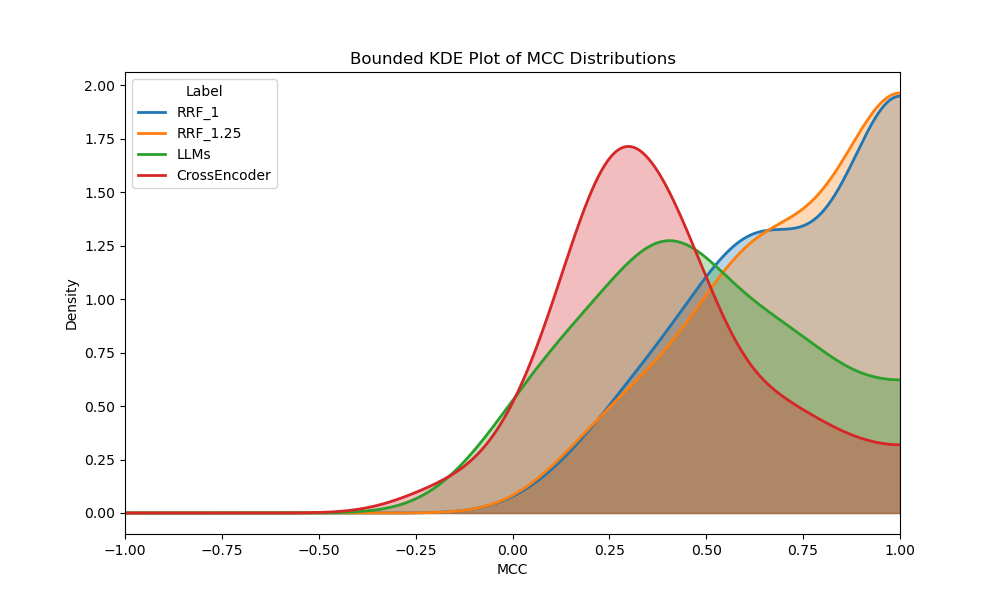
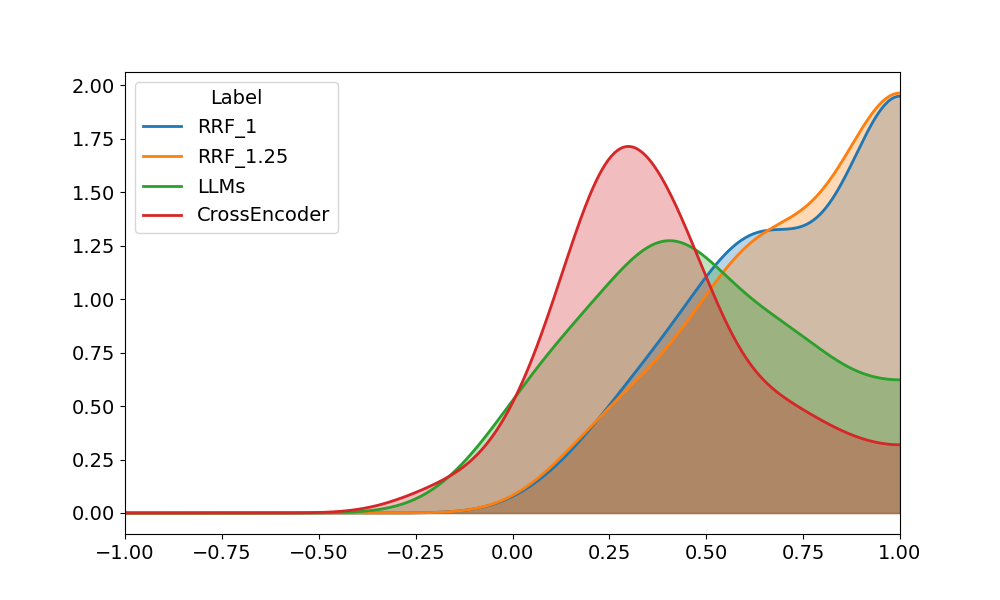
edit figure labels

diff --git a/analysis/Fig5/boundKDE_method.py b/analysis/Fig5/boundKDE_method.py
@@ -55,11 +55,12 @@ def plot_bounded_kde(df, column, title, xlabel, filename, lower_bound, upper_bou
             line, = plt.plot(x_eval, density, label=label, linewidth=2)
             plt.fill_between(x_eval, density, alpha=0.3, color=line.get_color())
 
-    plt.title(title)
-    plt.xlabel(xlabel)
-    plt.ylabel('Density')
+    # plt.title(title)
+    # plt.xlabel(xlabel)
+    # plt.ylabel('Density')
+    plt.tick_params(axis="both", which="major", labelsize=14)
     plt.xlim(lower_bound, upper_bound)
-    plt.legend(title='Label')
+    plt.legend(title='Label', title_fontsize=14, fontsize=14)
     plt.savefig(os.path.join(current_dir, filename))
     plt.close()
 

diff --git a/analysis/Fig5/boundKDE_method_RRF_unit2course.py b/analysis/Fig5/boundKDE_method_RRF_unit2course.py
@@ -55,11 +55,12 @@ def plot_bounded_kde(df, column, title, xlabel, filename, lower_bound, upper_bou
             line, = plt.plot(x_eval, density, label=label, linewidth=2)
             plt.fill_between(x_eval, density, alpha=0.3, color=line.get_color())
 
-    plt.title(title)
-    plt.xlabel(xlabel)
-    plt.ylabel('Density')
+    # plt.title(title)
+    # plt.xlabel(xlabel)
+    # plt.ylabel('Density')
+    plt.tick_params(axis="both", which="major", labelsize=14)
     plt.xlim(lower_bound, upper_bound)
-    plt.legend(title='Label')
+    plt.legend(title='Label', title_fontsize=14, fontsize=14)
     plt.savefig(os.path.join(current_dir, filename))
     plt.close()
 

diff --git a/analysis/Fig6/test_boundKDE_method_RRF.py b/analysis/Fig6/test_boundKDE_method_RRF.py
@@ -56,11 +56,12 @@ def plot_bounded_kde(df, column, title, xlabel, filename, lower_bound, upper_bou
             line, = plt.plot(x_eval, density, label=label, linewidth=2)
             plt.fill_between(x_eval, density, alpha=0.3, color=line.get_color())
 
-    plt.title(title)
-    plt.xlabel(xlabel)
-    plt.ylabel('Density')
+    #plt.title(title)
+    #plt.xlabel(xlabel)
+    #plt.ylabel('Density')
+    plt.tick_params(axis="both", which="major", labelsize=14)
     plt.xlim(lower_bound, upper_bound)
-    plt.legend(title='Label')
+    plt.legend(title='Label', title_fontsize=14, fontsize=14)
     plt.savefig(os.path.join(current_dir, filename))
     plt.close()
 
